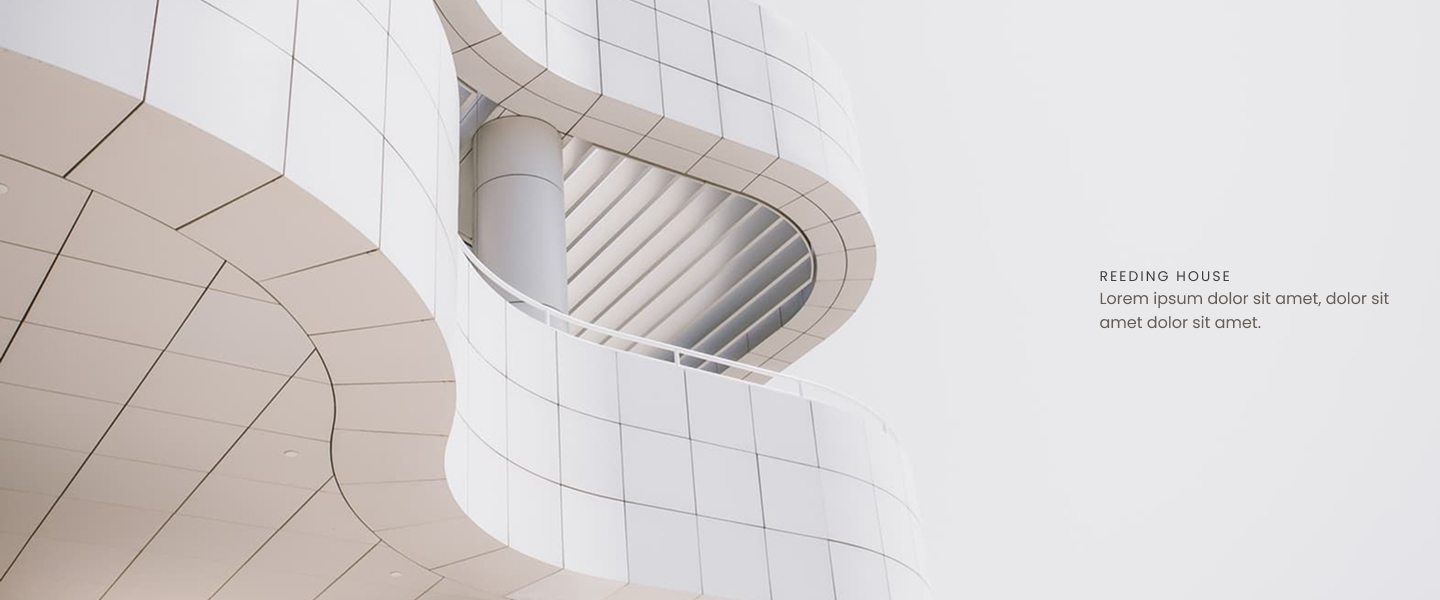
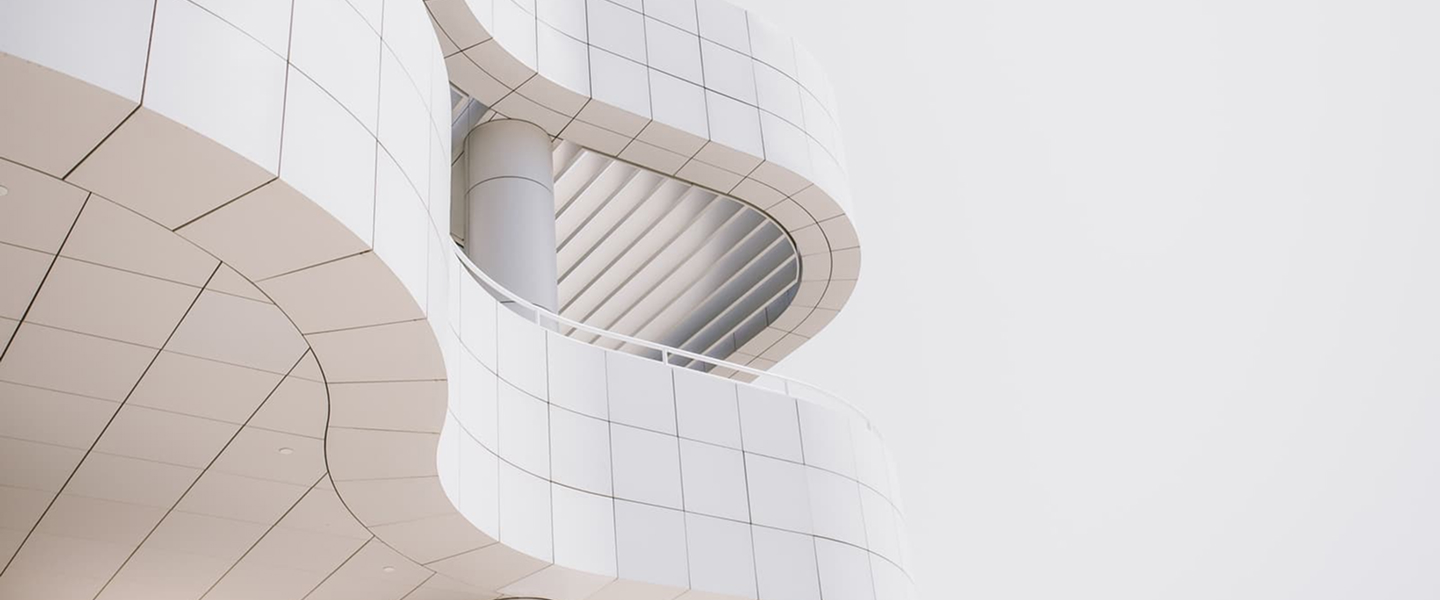
Сверстала еще 2 секции

diff --git a/uspick.html b/uspick.html
@@ -8,67 +8,75 @@
 </head>
 <body>
 <header class="header">
-    <div class="header__wrapper">
-        <div class="header__inner">
-            <img class="header__logo" src="./images/logo.svg" alt="">
-            <div class="header__right">
-                <ul class="header__list">
-                    <li class="header__list-item">
-                        <a class="header__list-item-link" href="#projects">Projects</a>
-                    </li>
-                    <li class="header__list-item">
-                        <a class="header__list-item-link" href="#about">About</a>
-                    </li>
+    <div class="container">
+        <div class="header__wrapper">
+            <div class="header__inner">
+                <img class="header__logo" src="./images/logo.svg" alt="">
+                <div class="header__right">
+                    <ul class="header__list">
+                        <li class="header__list-item">
+                            <a class="header__list-item-link" href="#projects">Projects</a>
+                        </li>
+                        <li class="header__list-item">
+                            <a class="header__list-item-link" href="#about">About</a>
+                        </li>
 
-                    <li class="header__list-item">
-                        <a class="header__list-item-link" href="#news">News</a>
-                    </li>
-                    <li class="header__list-item">
-                        <a class="header__list-item-link" href="#team">Team</a>
-                    </li>
-                    <li class="header__list-item">
-                        <a class="header__list-item-link" href="#contact">Contact</a>
-                    </li>
-                </ul>
-                <button class="header__button">Get template</button>
+                        <li class="header__list-item">
+                            <a class="header__list-item-link" href="#news">News</a>
+                        </li>
+                        <li class="header__list-item">
+                            <a class="header__list-item-link" href="#team">Team</a>
+                        </li>
+                        <li class="header__list-item">
+                            <a class="header__list-item-link" href="#contact">Contact</a>
+                        </li>
+                    </ul>
+                    <button class="header__button">Get template</button>
+                </div>
             </div>
         </div>
     </div>
 </header>
 <main class="main">
     <section id="projects" class="projects">
-        <div class="main__projects-left">
-            <div class="main__projects-left-content">
-                <p class="main__projects-left-content-logo">Wishbone+Partners</p>
-                <h1 class="main__projects-left-content-title">The home of beautiful architecture.</h1>
-                <p class="main__projects-left-content-text">We are an architecture firm with a focus on beautiful but functional design. At its heart, we believe design is about usability and accessibility — these are the guiding principles for our work. Read more about our previous projects, our process and our team below.</p>
+        <div class="container">
+            <div class="projects__inner">
+                <div class="main__projects-left">
+                    <div class="main__projects-left-content">
+                        <p class="main__projects-left-content-logo">Wishbone+Partners</p>
+                        <h1 class="main__projects-left-content-title">The home of beautiful architecture.</h1>
+                        <p class="main__projects-left-content-text">We are an architecture firm with a focus on beautiful but functional design. At its heart, we believe design is about usability and accessibility — these are the guiding principles for our work. Read more about our previous projects, our process and our team below.</p>
+                    </div>
+                    <a class="main__projects-left-link" href="#">Read more</a>
+                </div>
+                <div class="main__projects-photo">
+                    <img src="./images/projects-photo.jpg" alt="">
+                </div>
             </div>
-            <a class="main__projects-left-link" href="#">Read more</a>
-        </div>
-        <div class="main__projects-photo">
-            <img src="./images/projects-photo.jpg" alt="">
         </div>
     </section>
 
     <section id="about" class="about">
-        <div class="about__wrapper">
-            <div class="about__inner">
-                <h2 class="about__title">Our firm</h2>
-                <div class="about__content">
-                    <div class="about__content-text">
-                        <p class="about__content-text-text">Lorem ipsum dolor sit amet, consectetur adipiscing elit. Suspendisse varius enim in eros elementum tristique. Duis cursus, mi quis viverra ornare, eros dolor interdum nulla, ut commodo diam libero vitae erat. Aenean faucibus nibh et justo cursus id rutrum lorem imperdiet. Nunc ut sem vitae risus tristique posuere.</p>
-                        <p class="about__content-text-text">Lorem ipsum dolor sit amet, consectetur adipiscing elit. Suspendisse varius enim in eros elementum tristique. Duis cursus, mi quis viverra ornare, eros dolor interdum nulla, ut commodo diam libero vitae erat. Aenean faucibus nibh et justo cursus id rutrum lorem imperdiet. Nunc ut sem vitae risus tristique posuere.</p>
-                        <p class="about__content-text-text">Lorem ipsum dolor sit amet, consectetur adipiscing elit. Suspendisse varius enim in eros elementum tristique. Duis cursus, mi quis viverra ornare, eros dolor interdum nulla, ut commodo diam libero vitae erat. Aenean faucibus nibh et justo cursus id rutrum lorem imperdiet. Nunc ut sem vitae risus tristique posuere.</p>
-                    </div>
-
-                    <div class="about__content-person">
-                        <img class="about__content-person-photo" src="./images/about-person.png" alt="">
-                        <div class="about__content-person-info">
-                            <p class="about__content-person-info-name">Stephen Collier</p>
-                            <p class="about__content-person-info-job">Senior Partner</p>
+        <div class="container">
+            <div class="about__wrapper">
+                <div class="about__inner">
+                    <h2 class="about__title">Our firm</h2>
+                    <div class="about__content">
+                        <div class="about__content-text">
+                            <p class="about__content-text-text">Lorem ipsum dolor sit amet, consectetur adipiscing elit. Suspendisse varius enim in eros elementum tristique. Duis cursus, mi quis viverra ornare, eros dolor interdum nulla, ut commodo diam libero vitae erat. Aenean faucibus nibh et justo cursus id rutrum lorem imperdiet. Nunc ut sem vitae risus tristique posuere.</p>
+                            <p class="about__content-text-text">Lorem ipsum dolor sit amet, consectetur adipiscing elit. Suspendisse varius enim in eros elementum tristique. Duis cursus, mi quis viverra ornare, eros dolor interdum nulla, ut commodo diam libero vitae erat. Aenean faucibus nibh et justo cursus id rutrum lorem imperdiet. Nunc ut sem vitae risus tristique posuere.</p>
+                            <p class="about__content-text-text">Lorem ipsum dolor sit amet, consectetur adipiscing elit. Suspendisse varius enim in eros elementum tristique. Duis cursus, mi quis viverra ornare, eros dolor interdum nulla, ut commodo diam libero vitae erat. Aenean faucibus nibh et justo cursus id rutrum lorem imperdiet. Nunc ut sem vitae risus tristique posuere.</p>
                         </div>
-                    </div>
 
+                        <div class="about__content-person">
+                            <img class="about__content-person-photo" src="./images/about-person.png" alt="">
+                            <div class="about__content-person-info">
+                                <p class="about__content-person-info-name">Stephen Collier</p>
+                                <p class="about__content-person-info-job">Senior Partner</p>
+                            </div>
+                        </div>
+
+                    </div>
                 </div>
             </div>
         </div>
@@ -76,9 +84,55 @@
 
     <section id="news" class="news">
         <div class="news-content">
-            <img src="./images/news-building.jpg" alt="">
+            <div class="container">
+                <div class="news-content__inner">
+                    <div class="news-content__info">
+                        <h2 class="news-content__info-title">
+                            Reeding House
+                        </h2>
+                        <p class="news-content__info-text">Lorem ipsum dolor sit amet, dolor sit amet dolor sit amet.</p>
+                    </div>
+                </div>
+            </div>
         </div>
+
+        <div class="process">
+            <div class="container">
+                <div class="process__inner">
+                    <div class="process__title">
+                        <p class="process__title-text">Our process</p>
+                        <h2 class="process__title-mainText">How we do what we do.</h2>
+                    </div>
+                    <div class="process__content">
+                        <div class="process__content-info">
+                            <div class="process__content-one-photo">
+                                <img src="./images/news-content-sketching.svg" alt="">
+                            </div>
+                            <h2 class="process__content-one-title">Sketching</h2>
+                            <p class="process__content-one-text">Lorem ipsum dolor sit amet, consectetur adipiscing elit. Nulla ut tristique libero. Nulla luctus sapien ac arcu tempor, vitae tempor leo iaculis.</p>
+                        </div>
+                        <div class="process__content-info">
+                            <div class="process__content-two-photo">
+                                <img src="./images/news-content-finalizing.png" alt="">
+                            </div>
+
+                            <h2 class="process__content-two-title">Finalizing</h2>
+                            <p class="process__content-two-text">Adipiscing elit. Nulla ut tristique libero. Nulla vitae tempor leo iaculis luctus sapien ac arcu tempor, vitae.</p>
+                        </div>
+                        <div class="process__content-info">
+                            <div class="process__content-three-photo">
+                                <img src="./images/news-content-building.png" alt="">
+                            </div>
+                            <h2 class="process__content-three-title">Building</h2>
+                            <p class="process__content-three-text">Nulla ut tristique libero. Lorem ipsum ut tristique libero. Nulla luctus sapien ac arcu tempor, vitae lorem ipsum dolor leo iaculis.</p>
+                        </div>
+                    </div>
+                </div>
+            </div>
+        </div>
+
         
+
     </section>
     
 </main>

diff --git a/style.css b/style.css
@@ -13,8 +13,9 @@ body {
     font-weight: 400;
 }
 
-.header {
-
+.container {
+    max-width: 1440px;
+    margin: 0 auto;
 }
 
 .header {
@@ -87,8 +88,10 @@ body {
 
 .projects {
     background-color: #ECE7E4;
-    display: flex;
+}
 
+.projects__inner {
+    display: flex;
 }
 
 .main__projects-left {
@@ -141,14 +144,18 @@ body {
 }
 
 .main__projects-left-link:hover {
+
     border-color: #403E3B;
 }
+
+
 
 
 .about {
     background-color: #fff;
     display: flex;
     padding: 100px 10px;
+    margin-bottom: 100px;
 }
 
 .about__wrapper {
@@ -175,7 +182,7 @@ body {
     display: flex;
     flex-direction: column;
     gap: 10px;
-    margin-bottom: 30px;
+    
 }
 .about__content-text-text {
     color: #403E3B;
@@ -201,3 +208,147 @@ body {
     color: #645C55;
     font-size: 14px;
 }
+
+.news-content {
+    background: url("./images/news-building.jpg") no-repeat center center / cover;
+    padding-right: 75px;
+}
+
+.news-content__inner {
+    display: flex;
+    justify-content: flex-end;
+    align-items: center;
+    height: 600px;
+}
+
+.news-content__info {
+    max-width: 285px;
+}
+
+.news-content__info-title {
+    font-size: 14px;
+    text-transform: uppercase;
+    color: #403E3B;
+    font-weight: 400;
+}
+
+.news-content__info-text {
+    font-size: 16px;
+    color: #645C55;
+}
+
+
+
+
+.news-content__photo {
+
+}
+
+.process {
+    background-color: #FFFFFF;
+    margin-top: 100px;
+}
+
+.process__inner {
+    display: flex;
+    flex-direction: column;
+}
+
+.process__title {
+
+    display: flex;
+    flex-direction: column;
+    align-items: center;
+    
+    margin-bottom: 47px;
+
+
+}
+
+.process__title-text {
+    font-size: 14px;
+    color: #645C55;
+    text-transform: uppercase;
+    font-weight: 400;
+
+}
+
+.process__title-mainText {
+    font-size: 39px;
+    color: #1B1A1A;
+    font-weight: 400;
+}
+
+.process__content {
+    display: flex;
+    flex-direction: row;
+    align-items: center;
+    gap: 56px;
+    padding: 0px 136px;
+
+}
+
+.process__content-info {
+    display: flex;
+    flex-direction: column;
+    align-items: center;
+    gap: 15px;
+    
+
+}
+
+.process__content-one-photo {
+    
+
+}
+
+.process__content-one-title {
+    font-size: 18px;
+    color: #403E3B;
+    font-weight: 400;
+    
+
+}
+
+.process__content-one-text {
+    font-size: 15px;
+    color: #645C55;
+}
+
+
+.process__content-two-photo {
+
+}
+
+.process__content-two-title {
+    font-size: 17px;
+    color: #403E3B;
+    font-weight: 400;
+
+}
+
+.process__content-two-text {
+    font-size: 16px;
+    color: #645C55;
+    
+}
+
+
+.process__content-three-photo {
+
+}
+
+.process__content-three-title {
+    font-size: 17px;
+    color: #403E3B;
+    font-weight: 400;
+
+}
+
+.process__content-three-text {
+    font-size: 16px;
+    color: #645C55;
+    
+}
+
+
